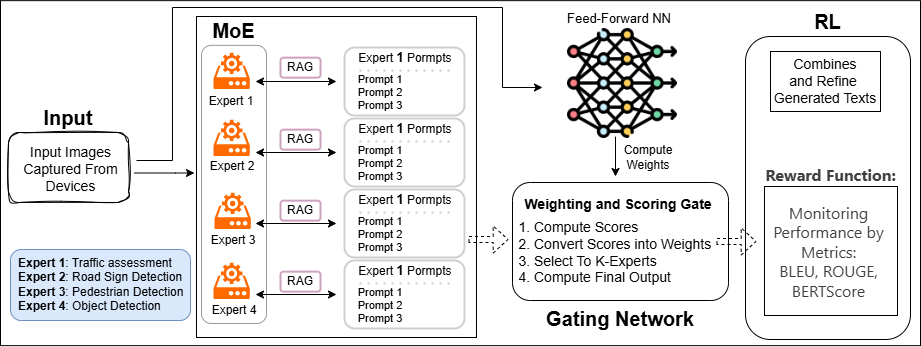
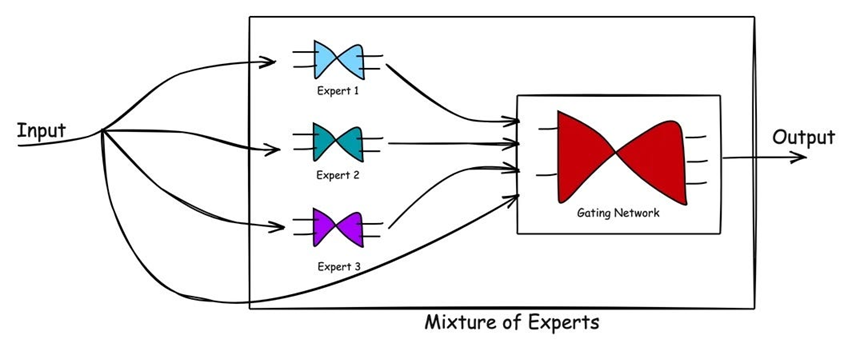
update portfolio

Changed region(s): [[0.0, 0.0, 1.0, 1.0], [0.1526, 0.2609, 0.1831, 0.3188], [0.7934, 0.1159, 0.8239, 0.1449]]

diff --git a/_portfolio/portfolio-2.html b/_portfolio/portfolio-2.html
@@ -4,4 +4,4 @@ excerpt: "Generate text from images using VLM, MoE, RL<br/><img src='/images/por
 collection: portfolio
 ---
 
-This is an item in your portfolio. It can be have images or nice text. If you name the file .md, it will be parsed as markdown. If you name the file .html, it will be parsed as HTML. 
+The system first employs a Mixture-of-Experts (MoE) architecture, where multiple specialized Vision-Language Models (VLMs) analyze distinct aspects of a scene, such as traffic dynamics, pedestrians, road signs, and environmental conditions. Each "expert" generates a targeted description, and these are aggregated to form a comprehensive initial analysis of the image. A feed-forward neural network then dynamically assigns relevance weights to each expert's output based on the specific content of the input image, prioritizing the most important information for the given context. In the final stage, a Reinforcement Learning (RL) agent refines this aggregated text to produce a single, coherent, and privacy-aware output. The RL agent is trained to optimize the text for the dual objectives of semantic accuracy and privacy. This is achieved using a custom, composite reward function that balances semantic relevance (measured by BERTScore), coverage of key details from the experts (measured by ROUGE), and conciseness to avoid redundancy. By using policy-gradient methods, the agent learns to generate a final description that preserves necessary information for tasks like traffic monitoring while fundamentally abstracting away personally identifiable details. This method shifts the privacy-preserving paradigm from traditional image obfuscation to controlled semantic abstraction. 

diff --git a/_portfolio/portfolio-3.html b/_portfolio/portfolio-3.html
@@ -1,0 +1,7 @@
+---
+title: "Credit Card Fraud Detection"
+excerpt: "Detecting credit card frauds using XGBoost and LightGBM methods<br/><img src='/images/portfolio3.png'>"
+collection: portfolio
+---
+
+In this project we utilized an ensemble of tree-based models, primarily LightGBM and XGBoost, to detect credit card fraud in a highly imbalanced dataset without employing data resampling techniques. The core of the method is a gradient boosting model that sequentially builds decision trees, where each new tree is designed to correct the errors of the preceding one. In the LightGBM component, a gradient-based one-side sampling technique is used, which involves sorting data by higher gradients and selecting a combination of top records and randomly chosen records to maintain the data distribution while improving efficiency. The XGBoost model calculates a similarity score and gain to control tree splits and prevent overfitting. The final prediction is a weighted average derived from the outputs of over 20 different LightGBM and three XGBoost model executions, a cumulative approach designed to improve the overall accuracy and achieve a higher Area Under the Curve (AUC) score.
